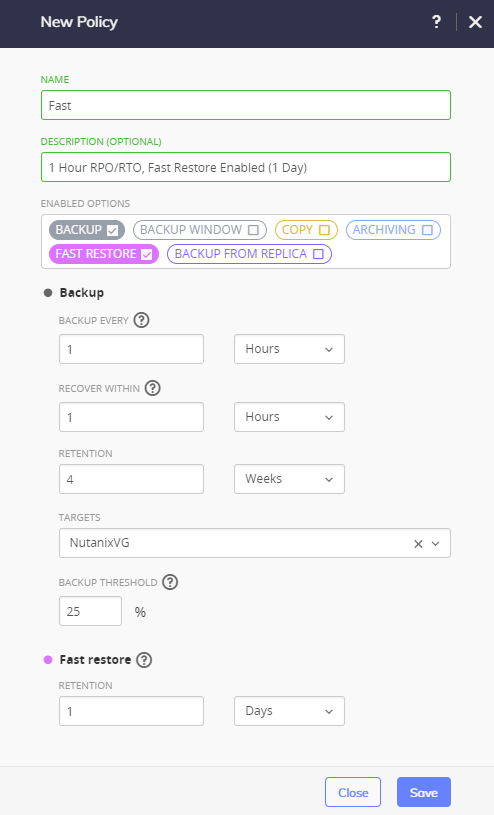
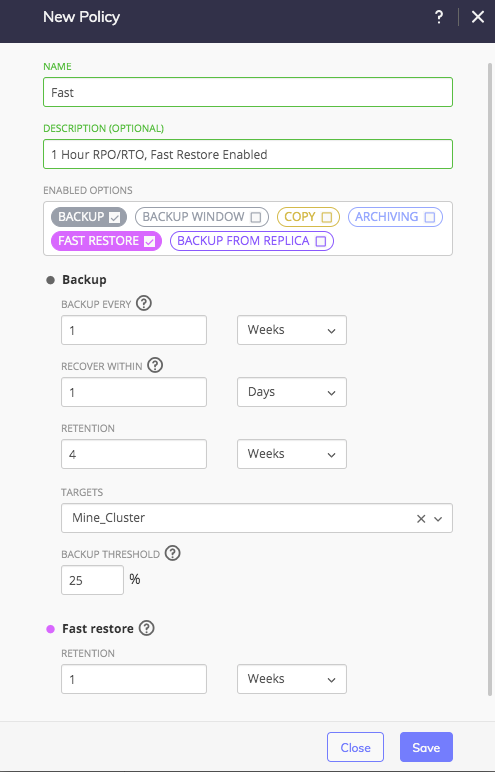
Minor update to HYCU lab per QA from Pete Walker - changed Fast Restore from 1 day to 1 week

diff --git a/mine/hycu/hycu/hycu.rst b/mine/hycu/hycu/hycu.rst
@@ -198,14 +198,14 @@ HYCU uses policies to define RPO, RTO, retention, and backup target(s), allowing
 #. Fill out the following fields and click **Save**:
 
    - **Name** - Fast
-   - **Description** - 1 Hour RPO/RTO, Fast Restore Enabled (1 Day)
+   - **Description** - 1 Hour RPO/RTO, Fast Restore Enabled (1 Week)
    - **Enabled Options** - Backup, Fast Restore
    - **Backup Every** - 1 Hours
    - **Recover Within** - 1 Hours
    - **Retention** - 4 Weeks
    - **Targets** - Automatically selected
    - **Backup Threshold** - 25%
-   - **Fast Restore Retention** - 1 Day
+   - **Fast Restore Retention** - 1 Weeks
 
    .. figure:: images/11.png
 
